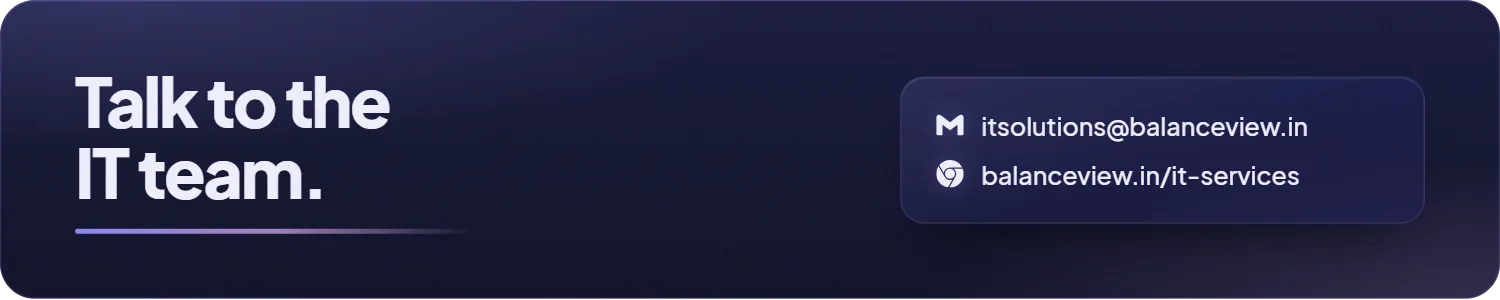
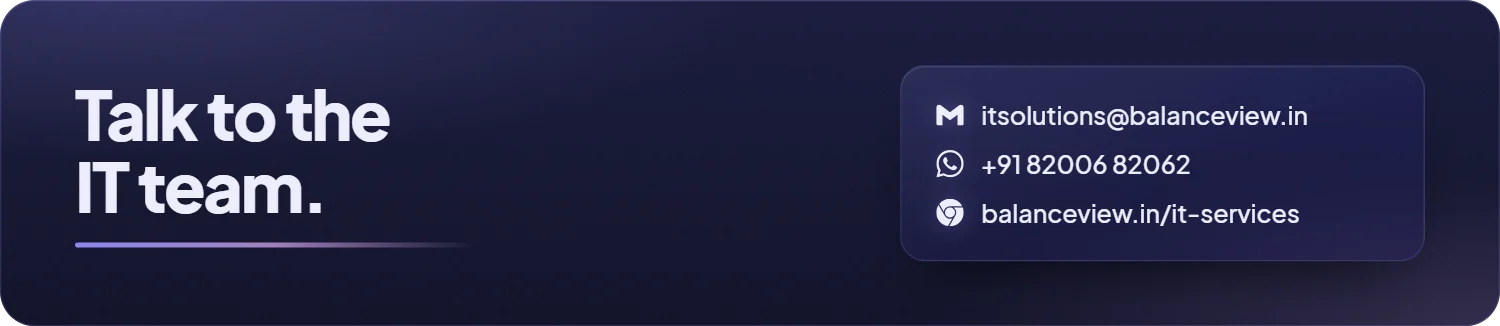
Reorder org profile cards, add tech card and WhatsApp contact (#4)
What we do, Tech we use and How we ship now sit above the projects; 6 projects get full cards and the other 7 share one More work card. Contact now lists the WhatsApp number.

diff --git a/profile/README.md b/profile/README.md
@@ -5,11 +5,16 @@
 <p align="center">
 <a href="https://www.balanceview.in/it-services"><img src="https://img.shields.io/badge/Website-balanceview.in-4F46B5?style=flat-square&labelColor=16183A&logo=googlechrome&logoColor=white" alt="Website: balanceview.in" height="28"></a>
 <a href="mailto:itsolutions@balanceview.in"><img src="https://img.shields.io/badge/Email-itsolutions%40balanceview.in-4F46B5?style=flat-square&labelColor=16183A&logo=gmail&logoColor=white" alt="Email: itsolutions@balanceview.in" height="28"></a>
+<a href="https://wa.me/918200682062"><img src="https://img.shields.io/badge/WhatsApp-%2B91_82006_82062-4F46B5?style=flat-square&labelColor=16183A&logo=whatsapp&logoColor=white" alt="WhatsApp: +91 82006 82062" height="28"></a>
 </p>
 
 <p align="center">BalanceView builds websites, web apps, APIs, mobile apps and business software for companies across India, from Ahmedabad. You get the full source code of what we build.</p>
 
 <img src="assets/tiles.webp" width="100%" alt="What we do. Web development: Websites, web apps, online stores and SaaS products in Laravel, Vue and React, plus upgrades for older PHP apps. Backend and APIs: REST and GraphQL APIs in Laravel and Node.js, and database tuning for systems that have slowed down. Mobile apps: iOS and Android apps in React Native or Flutter, released to the App Store and Google Play. CMS and WordPress: Custom WordPress themes and plugins, and headless CMS setups your team can edit. Cloud and integrations: AWS hosting, payment gateway integration, and CI/CD pipelines that test and deploy your code. Cybersecurity: Security audits, penetration tests, secure code reviews, incident response, ISO 27001, SOC 2 and PCI DSS prep. Desktop software: Windows software for billing, inventory and back office work, with offline working and cloud sync.">
+
+<img src="assets/toolkit.webp" width="100%" alt="Tech we use. Backend: PHP, Laravel, Filament, Livewire, MySQL, Redis, Composer. Frontend: TypeScript, React, Vue, Inertia, Tailwind, Vite, Astro. Testing, delivery: Pest, Playwright, Larastan, Actions, Docker, Git, Cloudflare. CMS: WordPress, WooCommerce, Elementor, Bootstrap, Hostinger.">
+
+<img src="assets/ship.webp" width="100%" alt="How we ship. git push (branch + PR), then Pint (code style), then Larastan (static analysis), then Pest (tests), then Playwright (real browser), then Deploy (after green CI), then Live check (pages + headers).">
 
 <img src="assets/work.webp" width="100%" alt="Live work. 13 sites we built and run. Client code stays private.">
 
@@ -19,34 +24,15 @@
 </p>
 
 <p align="center">
-<a href="https://mahalifepaths.in"><img src="assets/work-mahalifepaths.webp" width="49%" alt="Maha Life Paths: Vedic astrology, numerology and vastu consultancy with service and enquiry flows. Built with Laravel 12, Filament 5, Inertia 2, React 19."></a>
-<a href="https://margdestination.com"><img src="assets/work-margdestination.webp" width="49%" alt="Marg Destination: Travel and tour operator with enquiry and booking flows. Built with Laravel 12, Filament 5, Inertia 2, React 19."></a>
-</p>
-
-<p align="center">
-<img src="assets/work-wages.webp" width="49%" alt="Wages App: Payroll and wage management with role-based permissions, activity logging and reporting dashboards. Built with Laravel 13, Filament 5, Inertia 2, React 19.">
 <a href="https://superfast.balanceview.in"><img src="assets/work-superfast.webp" width="49%" alt="SuperFast Roadways: Freight company site and operations app with Excel exports, rebuilt from a legacy Laravel 5.7 + Vue 2 codebase. Built with Laravel 12, Filament 5, Livewire."></a>
-</p>
-
-<p align="center">
-<a href="https://uniquepalace.balanceview.in"><img src="assets/work-uniquepalace.webp" width="49%" alt="Unique Palace: Gift store for birthdays, anniversaries and festivals, with a back office: menu builder, roles, activity log and scheduled backups. Built with Laravel 13, Filament 5, Inertia 3, React 19."></a>
-<a href="https://grocerystore.balanceview.in"><img src="assets/work-grocery.webp" width="49%" alt="Grocery Store: Online store and back office with role-based permissions and analytics charts. Built with Laravel 12, Filament 5, Inertia 2, React 19."></a>
-</p>
-
-<p align="center">
 <a href="https://hdstudio.co.in"><img src="assets/work-hdstudio.webp" width="49%" alt="HD Studio: Drone photography, videography and survey studio in Ahmedabad. Built with Astro 7, TypeScript, Tailwind 4, GSAP."></a>
+</p>
+
+<p align="center">
+<a href="https://grocerystore.balanceview.in"><img src="assets/work-grocery.webp" width="49%" alt="Grocery Store: Online store and back office with role-based permissions and analytics charts. Built with Laravel 12, Filament 5, Inertia 2, React 19."></a>
 <a href="https://radiocodess.com"><img src="assets/work-radiocode.webp" width="49%" alt="Radio Code: Car radio unlock-code platform: public site, admin back office, API and several connected apps. Built with Laravel, Blade, Vue, MySQL."></a>
 </p>
 
-<p align="center">
-<a href="https://margmigration.com"><img src="assets/work-margmigration.webp" width="49%" alt="Marg Migration: Immigration consultancy covering six countries and several visa categories. Built with WordPress, Custom theme."></a>
-<a href="https://scarlettplanners.com"><img src="assets/work-scarlett.webp" width="49%" alt="Scarlett Planners: Event planning studio site. Built with WordPress, Elementor, Custom theme."></a>
-</p>
+<img src="assets/more.webp" width="100%" alt="More work: Maha Life Paths (Consultancy, Laravel 12, Filament 5, Inertia 2, React 19); Marg Destination (Travel, Laravel 12, Filament 5, Inertia 2, React 19); Wages App (Payroll, admin only, Laravel 13, Filament 5, Inertia 2, React 19); Unique Palace (Gift shop, Laravel 13, Filament 5, Inertia 3, React 19); Marg Migration (WordPress, WordPress, Custom theme); Scarlett Planners (WordPress, WordPress, Elementor, Custom theme); Viz Design Solutions (Static PHP, PHP, Bootstrap).">
 
-<p align="center">
-<a href="https://vizdesign.balanceview.in"><img src="assets/work-vizdesign.webp" width="49%" alt="Viz Design Solutions: Interior design studio site, Ahmedabad. Built with PHP, Bootstrap."></a>
-</p>
-
-<img src="assets/ship.webp" width="100%" alt="How we ship. git push (branch + PR), then Pint (code style), then Larastan (static analysis), then Pest (tests), then Playwright (real browser), then Deploy (after green CI), then Live check (pages + headers).">
-
-<img src="assets/footer.webp" width="100%" alt="Talk to the IT team. itsolutions@balanceview.in, balanceview.in/it-services.">
+<img src="assets/footer.webp" width="100%" alt="Talk to the IT team. itsolutions@balanceview.in, +91 82006 82062, balanceview.in/it-services.">
